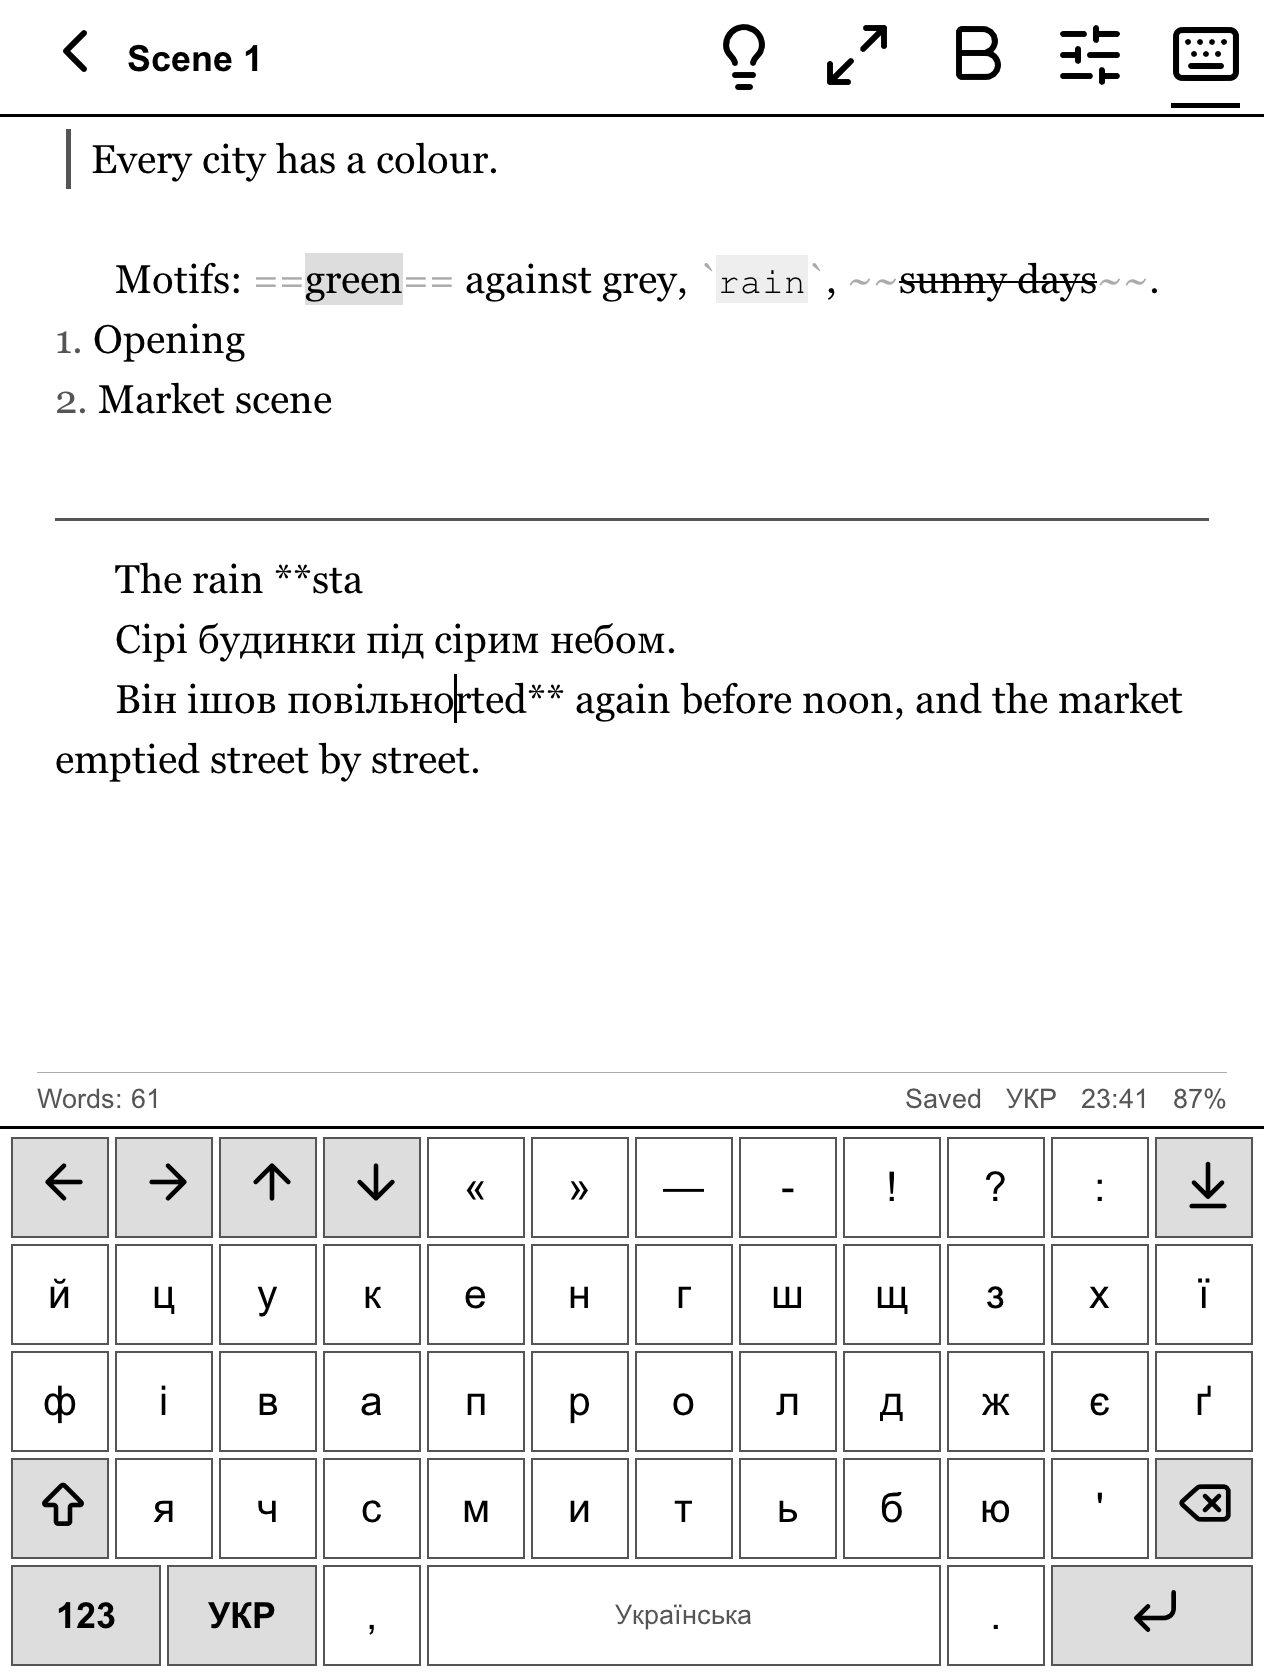
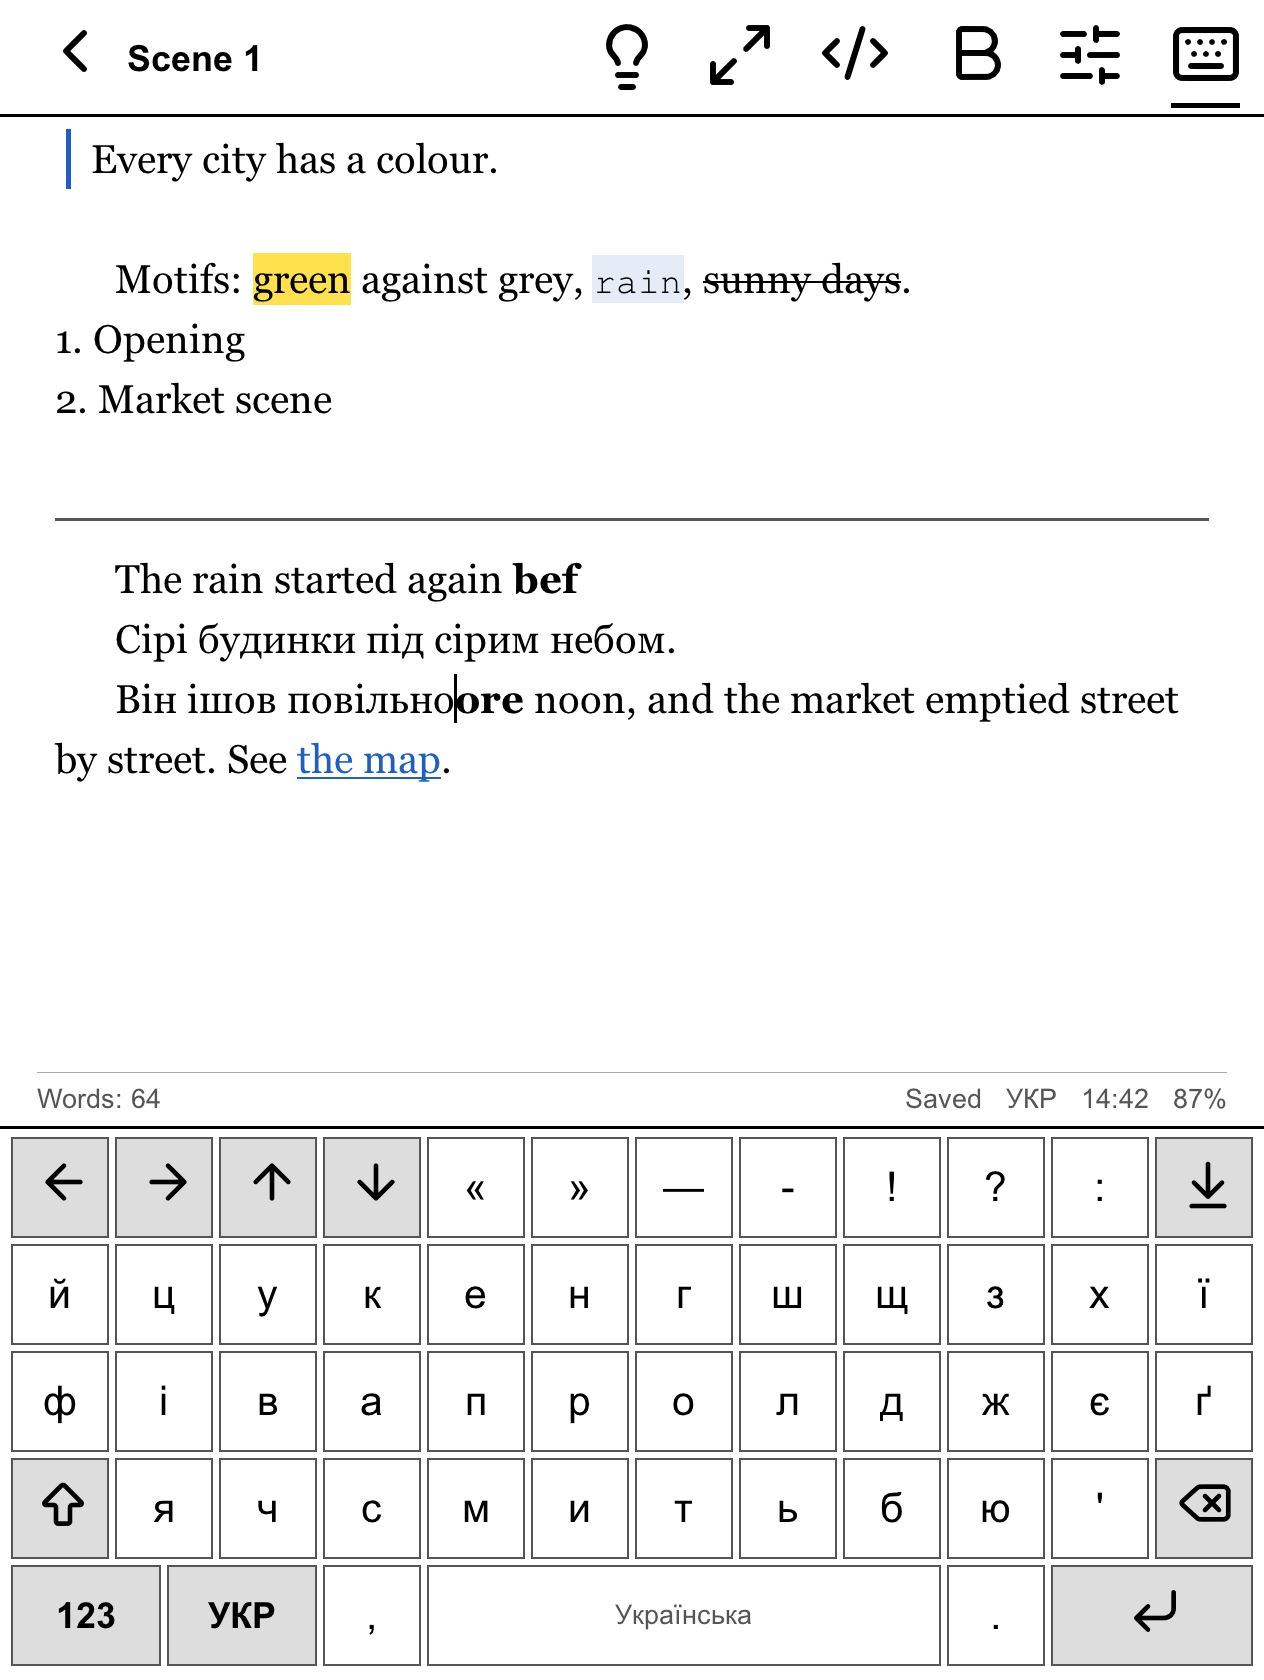
README and screenshots: Formatted and Source views, colour

diff --git a/README.md b/README.md
@@ -7,7 +7,7 @@ Keep journals, work notes, recipes, research, or a novel in progress. Notes are 
 files in ordinary folders, so you can open them on any computer.
 
 <p>
-  <img src="docs/screenshots/note.png" width="260" alt="A formatted note">
+  <img src="docs/screenshots/note.png" width="260" alt="A note in Formatted view, with colour">
   <img src="docs/screenshots/keyboard.png" width="260" alt="Typing with the on-screen keyboard">
   <img src="docs/screenshots/zen.png" width="260" alt="Zen mode">
 </p>
@@ -15,6 +15,9 @@ files in ordinary folders, so you can open them on any computer.
   <img src="docs/screenshots/projects.png" width="260" alt="Projects">
   <img src="docs/screenshots/project.png" width="260" alt="A project's folders and notes">
   <img src="docs/screenshots/formatting.png" width="260" alt="Formatting menu">
+</p>
+<p>
+  <img src="docs/screenshots/source.png" width="260" alt="Source view: the note as saved, with its Markdown symbols">
 </p>
 
 ## Features
@@ -27,10 +30,18 @@ files in ordinary folders, so you can open them on any computer.
   - bulleted, numbered and nested lists, plus task lists you tick with a tap;
   - links, images (shown as their caption), tables (columns aligned).
 
-  Markup characters stay visible in light grey, so the cursor never jumps unexpectedly.
-- **Formatting menu:** applies any of the above to the current line or word. Enter continues a
-  list, and Enter on an empty item ends it.
-- **Zen mode:** just your text, with no toolbars and no formatting. One tap in and one tap out.
+- **Two views:** *Formatted* is the default. The note looks like a word-processor page and shows
+  no Markdown symbols. Typing works like Word: bold and other styles carry on across spaces,
+  `---` makes a divider, `` ``` `` makes a code block, and Backspace at the start of a heading or list
+  item removes that formatting. *Source* shows the file exactly as saved, in a fixed-width font.
+  The `</>` button switches between them, and the app remembers your choice.
+- **Colour:** in Formatted view, highlights are yellow, links and quote bars are blue, ticks on
+  done tasks are green, and code has a pale blue tint. On black-and-white PocketBooks these show
+  as greys.
+- **Formatting menu:** applies any of the above to the current line or word. With no word
+  selected, choosing a style turns it on for what you type next. Enter continues a list, and
+  Enter on an empty item ends it.
+- **Zen mode:** just your text, with no toolbars and no formatting (plain text, as in Source view). One tap in and one tap out.
 - **Quick notes:** the 💡 button saves a thought straight into the project's `Ideas` folder.
 - **On-screen keyboard** built for e-ink:
   - English, Ukrainian and symbol layouts;
